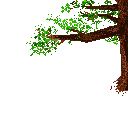
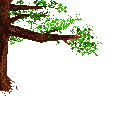
walking both directions working again.

Changed region(s): [[0.0, 0.0, 1.0, 0.75], [0.8438, 0.6562, 0.875, 0.7188], [0.125, 0.6562, 0.1562, 0.7188]]

diff --git a/internal/game/game.go b/internal/game/game.go
@@ -5,7 +5,6 @@ import (
 	"time"
 
 	"github.com/hajimehoshi/ebiten/v2"
-	"github.com/hajimehoshi/ebiten/v2/colorm"
 )
 
 // "github.com/hajimehoshi/ebiten/inpututil"
@@ -15,7 +14,6 @@ type Game struct {
 	player     *Player
 	background *Background
 	keyActions []*KeyAction
-	bgColor    colorm.ColorM
 }
 
 type PlayerState int
@@ -38,9 +36,9 @@ const (
 type Player struct {
 	x, y              float64
 	state             PlayerState
-	stateTimer        time.Time
 	animationFrames   map[PlayerState]map[Orientation][]*ebiten.Image
 	animationDuration time.Duration
+	lastFrameTime     time.Time
 	currentFrameIndex int
 	orientation       Orientation
 	speed             float64
@@ -106,7 +104,7 @@ func NewPlayer(x, y int, orientation Orientation) *Player {
 		state:             Idle,
 		orientation:       orientation,
 		animationFrames:   frames,
-		animationDuration: 100 * time.Millisecond,
+		currentFrameIndex: 0,
 		speed:             2.0,
 	}
 }
@@ -134,20 +132,21 @@ func NewKeyActions(player *Player, background *Background) []*KeyAction {
 			key: ebiten.KeyW,
 			callback: func(p *Player, b *Background) {
 				p.state = Jumping
-				p.currentFrameIndex = 0
+				// p.animationDuration = 200 * time.Millisecond
 			},
 		},
 		{
 			key: ebiten.KeyA,
 			callback: func(p *Player, b *Background) {
+				p.state = Walking
+				p.orientation = Left
+				// p.frameDuration = 100 * time.Millisecond
+				// p.animationDuration = 200 * time.Millisecond
 				if p.x <= 10 {
 					b.xOffset += p.speed
 				} else {
 					p.x -= p.speed
 				}
-				p.state = Walking
-				p.orientation = Left
-				p.currentFrameIndex = 0
 			},
 		},
 		{
@@ -155,7 +154,9 @@ func NewKeyActions(player *Player, background *Background) []*KeyAction {
 			callback: func(p *Player, b *Background) {
 				p.state = Walking
 				p.orientation = Right
-				p.currentFrameIndex = 0
+				// p.currentFrameIndex = 0
+				// p.frameDuration = 100 * time.Millisecond
+				// p.animationDuration = 200 * time.Millisecond
 				if p.x >= 120 {
 					b.xOffset -= p.speed
 				} else {
@@ -167,7 +168,9 @@ func NewKeyActions(player *Player, background *Background) []*KeyAction {
 			key: ebiten.KeySpace,
 			callback: func(p *Player, b *Background) {
 				p.state = Kicking
-				p.currentFrameIndex = 0
+				// p.currentFrameIndex = 0
+				// p.frameDuration = 200 * time.Millisecond
+				// p.animationDuration = 200 * time.Millisecond
 			},
 		},
 	}
@@ -199,7 +202,7 @@ func NewGame() (*Game, error) {
 		},
 		{
 			path:     "../../assets/trailer-1.png",
-			initialX: 75.0,
+			initialX: 25.0,
 			initialY: 40.0,
 			scale:    2.0,
 		},
@@ -212,24 +215,61 @@ func NewGame() (*Game, error) {
 	return &g, nil
 }
 
-// Update method for Game struct
 func (g *Game) Update() error {
+	// Call player's update function to manage frame updates
+
+	g.player.UpdateFrame()
+
+	keyPressed := false
+
+	// Handle input and other game logic
 	for _, keyAction := range g.keyActions {
 		if ebiten.IsKeyPressed(keyAction.key) {
 			keyAction.callback(g.player, g.background)
-			// Handle frame update
-			if time.Since(g.player.stateTimer) > g.player.animationDuration {
-				frames := g.player.animationFrames[g.player.state][g.player.orientation]
-				g.player.currentFrameIndex = (g.player.currentFrameIndex + 1) % len(frames)
-				g.player.stateTimer = time.Now()
-			}
-		} else if time.Since(g.player.stateTimer) > g.player.animationDuration {
-			g.player.state = Idle
-			g.player.currentFrameIndex = 0
-			g.player.stateTimer = time.Time{}
+			keyPressed = true
 		}
 	}
+
+	if !keyPressed {
+		g.player.state = Idle
+		g.player.currentFrameIndex = 0
+	}
+
 	return nil
+}
+
+func (p *Player) UpdateFrame() {
+	// Get the frames for the current state and orientation
+	frames := p.animationFrames[p.state][p.orientation]
+	//
+	// if p.state == Walking {
+	// 	fmt.Printf("\nFrame Index: %d \nLast Frame Time: %s\nElapsed Time: %s\nAnimation Duration: %s\nElapsed > Animation Duration ?: %t", p.currentFrameIndex, p.lastFrameTime, time.Since(p.lastFrameTime), p.animationDuration, time.Since(p.lastFrameTime) > p.animationDuration)
+	// }
+
+	// If the player is not idle, update the frame index based on elapsed time
+	if p.state != Idle {
+		// now := time.Now()
+		elapsed := time.Since(p.lastFrameTime) // convert to milliseconds
+		if elapsed > p.animationDuration {
+			// p.currentFrameIndex = (p.currentFrameIndex + 1) % len(frames)
+			if p.currentFrameIndex == len(frames)-1 {
+				p.currentFrameIndex = 0
+			} else {
+				p.currentFrameIndex++
+			}
+			p.lastFrameTime = time.Now()
+			p.animationDuration = 200 * time.Millisecond
+		}
+		// If we reach the end of the frames, handle state transition if necessary
+		if p.currentFrameIndex == len(frames)-1 && p.state != Walking {
+			p.state = Idle // Transition to Idle or another state as needed
+			p.currentFrameIndex = 0
+		}
+
+	} else {
+		// Reset to the first frame if idle
+		p.currentFrameIndex = 0
+	}
 }
 
 // Draw method for Game struct
